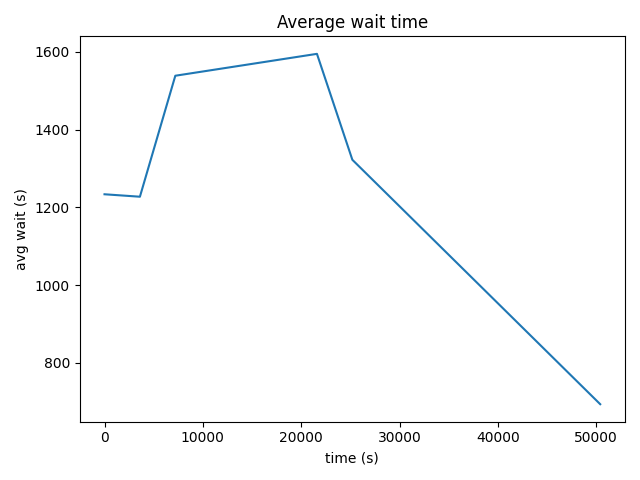
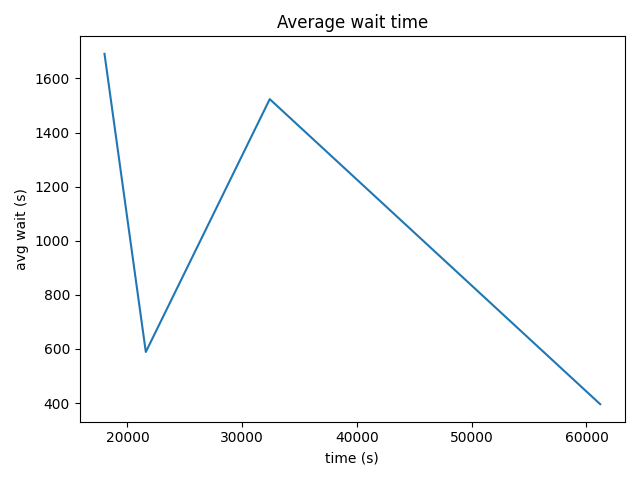
vehicle position

diff --git a/ridehailing/simulator.py b/ridehailing/simulator.py
@@ -80,9 +80,9 @@ class Simulator:
                 idle_vehicles = [v for v in self.vehicles if v.state == VehicleState.IDLE and v.available_at <= self.time and v.online]
                 if pending_orders and idle_vehicles:
                     if strategy == 'km':
-                        pairs = km_match(idle_vehicles, pending_orders, max_distance_km=max_dist)
+                        pairs = km_match(idle_vehicles, pending_orders, current_time=self.time, max_distance_km=max_dist)
                     else:
-                        pairs = nearest_match(idle_vehicles, pending_orders, max_distance_km=max_dist)
+                        pairs = nearest_match(idle_vehicles, pending_orders, current_time=self.time, max_distance_km=max_dist)
                     for vi_idx, oi_idx in pairs:
                         v = idle_vehicles[vi_idx]
                         o = pending_orders[oi_idx]
@@ -92,10 +92,16 @@ class Simulator:
                         # mark order as being picked up
                         o.state = OrderState.BEING_PICKED_UP
                         o.assigned_vid = v.vid
-                        # schedule pickup arrival event
-                        dist = euclidean_distance_km(v.x, v.y, o.x_from, o.y_from)
+                        # schedule pickup arrival event using vehicle's current position at this time
+                        vx, vy = v.position_at(self.time)
+                        dist = euclidean_distance_km(vx, vy, o.x_from, o.y_from)
                         tt = travel_time_seconds(dist, v.speed_kmph)
                         pickup_time = self.time + tt
+                        # set vehicle movement to pickup
+                        v.move_start_time = self.time
+                        v.move_end_time = pickup_time
+                        v.move_start_x, v.move_start_y = vx, vy
+                        v.move_end_x, v.move_end_y = o.x_from, o.y_from
                         self._push_event(pickup_time, ('pickup', o.oid))
                         self.log_event({'time': self.time, 'event': 'assigned', 'vid': v.vid, 'oid': o.oid, 'eta': tt})
                 # schedule next dispatch
@@ -107,15 +113,20 @@ class Simulator:
                 v = self._find_vehicle_by_vid(o.assigned_vid)
                 if v is None:
                     continue
-                # vehicle arrives at pickup: update states
+                # vehicle arrives at pickup: update states and start moving to dropoff
                 o.pickup_time = self.time
+                # ensure vehicle position is set to pickup point
                 v.x, v.y = o.x_from, o.y_from
                 v.state = VehicleState.TO_DROPOFF
                 o.state = OrderState.BEING_DROPPED_OFF
-                # schedule completion
+                # schedule completion and set movement to dropoff
                 trip_dist = euclidean_distance_km(o.x_from, o.y_from, o.x_to, o.y_to)
                 trip_tt = travel_time_seconds(trip_dist, v.speed_kmph)
                 complete_time = self.time + trip_tt
+                v.move_start_time = self.time
+                v.move_end_time = complete_time
+                v.move_start_x, v.move_start_y = o.x_from, o.y_from
+                v.move_end_x, v.move_end_y = o.x_to, o.y_to
                 self._push_event(complete_time, ('complete', o.oid))
                 # record waiting time metric
                 wait = o.pickup_time - o.request_time
@@ -129,8 +140,14 @@ class Simulator:
                 o.complete_time = self.time
                 o.state = OrderState.COMPLETED
                 if v:
-                    # move vehicle to dropoff point and free it
+                    # finalize vehicle position at dropoff and free it
                     v.x, v.y = o.x_to, o.y_to
+                    v.move_start_time = None
+                    v.move_end_time = None
+                    v.move_start_x = None
+                    v.move_start_y = None
+                    v.move_end_x = None
+                    v.move_end_y = None
                     v.state = VehicleState.IDLE
                     v.target_order_id = None
                     v.available_at = self.time

diff --git a/ridehailing/scheduler.py b/ridehailing/scheduler.py
@@ -3,7 +3,7 @@ from .models import Vehicle, Order
 from .utils import euclidean_distance_km, travel_time_seconds
 
 
-def km_match(vehicles: List[Vehicle], orders: List[Order], max_distance_km: float = 20.0) -> List[Tuple[int,int]]:
+def km_match(vehicles: List[Vehicle], orders: List[Order], current_time: float = 0.0, max_distance_km: float = 20.0) -> List[Tuple[int,int]]:
     """
     Compute matching pairs (vehicle_index, order_index) using Hungarian algorithm maximizing total score.
     We convert scores to costs by negation. Unmatchable pairs get a large cost.
@@ -20,8 +20,9 @@ def km_match(vehicles: List[Vehicle], orders: List[Order], max_distance_km: floa
         return []
     cost = np.full((n, m), 1e6)
     for i, v in enumerate(vehicles):
+        vx, vy = v.position_at(current_time)
         for j, o in enumerate(orders):
-            dist = euclidean_distance_km(v.x, v.y, o.x_from, o.y_from)
+            dist = euclidean_distance_km(vx, vy, o.x_from, o.y_from)
             if dist <= max_distance_km:
                 eta = travel_time_seconds(dist, v.speed_kmph)
                 score = -eta  # smaller eta better => higher score; convert to cost by negation
@@ -34,7 +35,7 @@ def km_match(vehicles: List[Vehicle], orders: List[Order], max_distance_km: floa
     return pairs
 
 
-def nearest_match(vehicles: List[Vehicle], orders: List[Order], max_distance_km: float = 20.0) -> List[Tuple[int,int]]:
+def nearest_match(vehicles: List[Vehicle], orders: List[Order], current_time: float = 0.0, max_distance_km: float = 20.0) -> List[Tuple[int,int]]:
     pairs = []
     used_v = set()
     used_o = set()
@@ -44,7 +45,8 @@ def nearest_match(vehicles: List[Vehicle], orders: List[Order], max_distance_km:
         for i, v in enumerate(vehicles):
             if i in used_v:
                 continue
-            dist = euclidean_distance_km(v.x, v.y, o.x_from, o.y_from)
+            vx, vy = v.position_at(current_time)
+            dist = euclidean_distance_km(vx, vy, o.x_from, o.y_from)
             if dist < best_dist and dist <= max_distance_km:
                 best_dist = dist
                 best_i = i

diff --git a/ridehailing/models.py b/ridehailing/models.py
@@ -20,6 +20,37 @@ class Vehicle:
     online: bool = True
     target_order_id: Optional[int] = None
     available_at: float = 0.0  # simulation time when vehicle becomes available
+    # movement tracking: when vehicle is moving, record start/end positions and times
+    move_start_time: Optional[float] = None
+    move_end_time: Optional[float] = None
+    move_start_x: Optional[float] = None
+    move_start_y: Optional[float] = None
+    move_end_x: Optional[float] = None
+    move_end_y: Optional[float] = None
+
+    def position_at(self, t: float):
+        """Return interpolated (x,y) position of the vehicle at simulation time t.
+
+        If vehicle is not moving or t is outside the movement interval, return current x,y.
+        """
+        if self.move_start_time is None or self.move_end_time is None:
+            return self.x, self.y
+        if t <= self.move_start_time:
+            return self.move_start_x if self.move_start_x is not None else self.x, self.move_start_y if self.move_start_y is not None else self.y
+        if t >= self.move_end_time:
+            return self.move_end_x if self.move_end_x is not None else self.x, self.move_end_y if self.move_end_y is not None else self.y
+        # linear interpolation
+        span = self.move_end_time - self.move_start_time
+        if span <= 0:
+            return self.move_end_x if self.move_end_x is not None else self.x, self.move_end_y if self.move_end_y is not None else self.y
+        frac = (t - self.move_start_time) / span
+        sx = self.move_start_x if self.move_start_x is not None else self.x
+        sy = self.move_start_y if self.move_start_y is not None else self.y
+        ex = self.move_end_x if self.move_end_x is not None else self.x
+        ey = self.move_end_y if self.move_end_y is not None else self.y
+        x = sx + (ex - sx) * frac
+        y = sy + (ey - sy) * frac
+        return x, y
 
 
 class OrderState(str, Enum):
